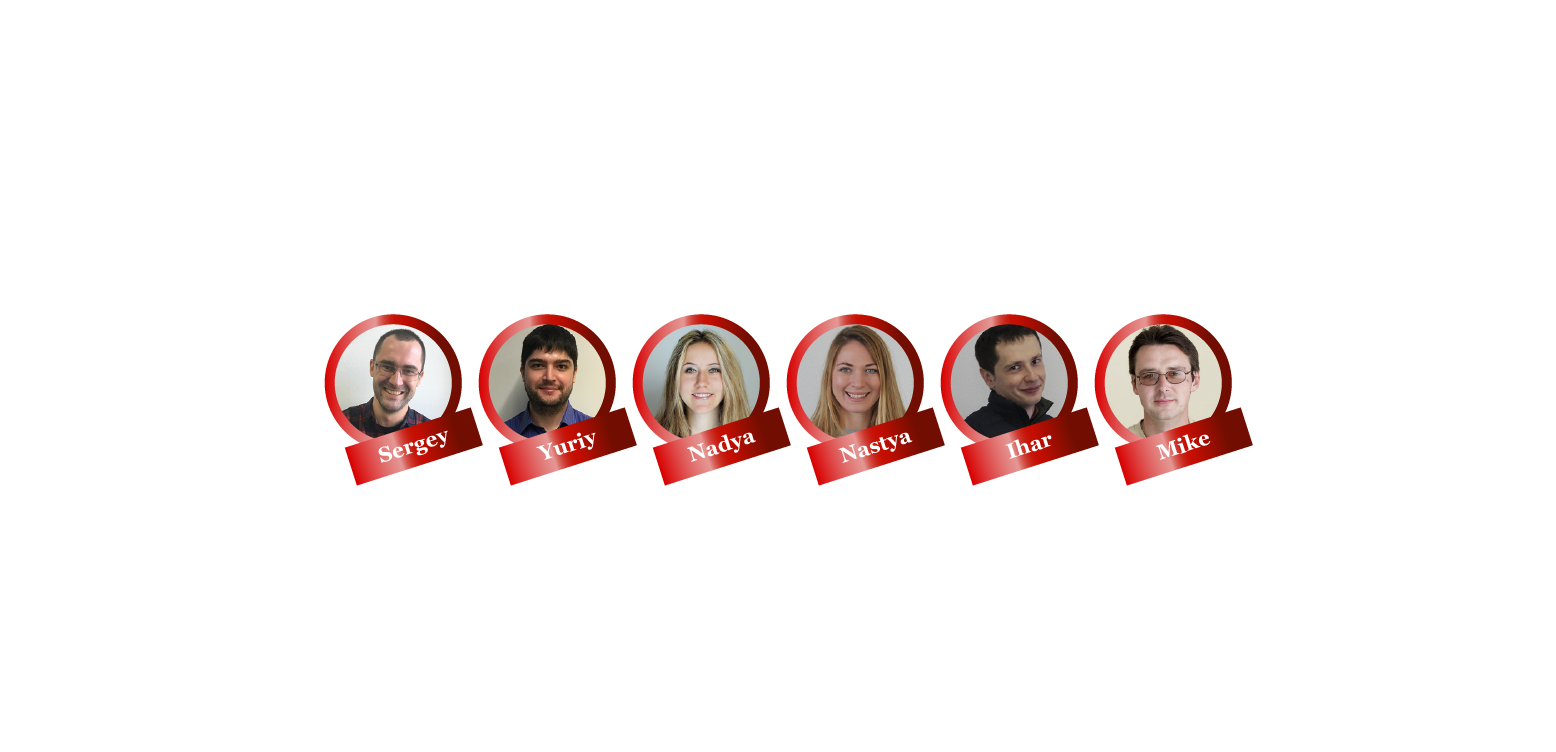
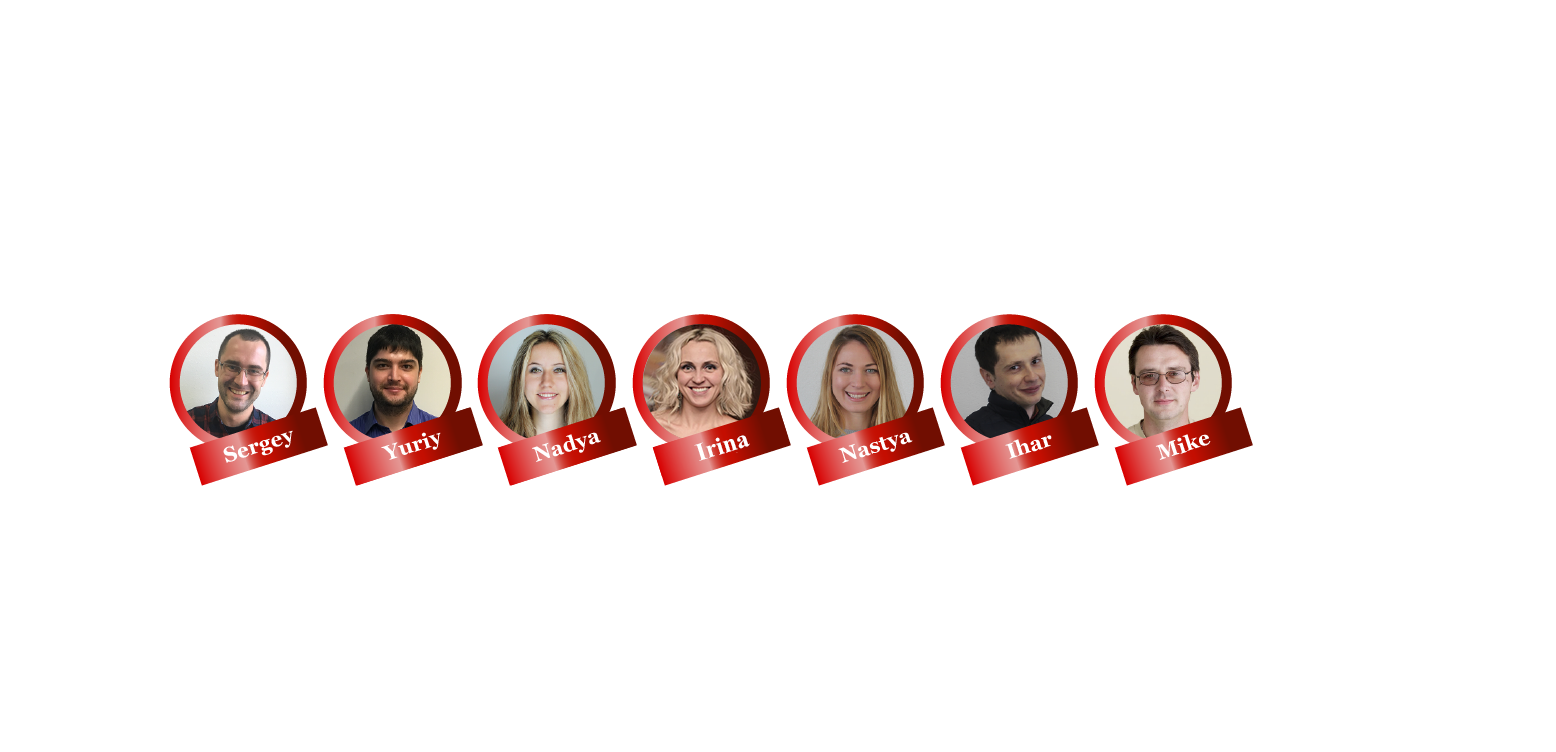
add photos

Changed region(s): [[0.0925, 0.3976, 0.4936, 0.6423]]

diff --git a/index.html b/index.html
@@ -68,7 +68,7 @@
             Christmas spirit is everywhere and New Year is on the way and we really do thank you for all those challenges and opportunities you have given to us. As we step into another year, we wish you confidence and courage to accept new challenges and work further towards your goals! We are really happy we managed to establish relationship of trust and hope we can multiply it next year. </p>
         <footer>
             Merry Christmas and Happy New Year!<br>
-            EPAM Team 
+            Gov Team 
         </footer>
     </li>
     <li class=c_kiss>
@@ -87,7 +87,7 @@ KISS & C Teams
         </footer>
     </li>
     <li class=haiku>
-        <h2>Dear Team,</h2>
+        <h2>Dear Team</h2>
         <p>
             This year was really great together we achieved a lot of tops, climbed a lot of mountains.
 We have finished the year with climbing the second world’s highest mountain K2, and the upcoming year we wish a smooth conquest of Everest!
@@ -109,7 +109,7 @@ I wish all our teams to be even more productive and effective!
         </footer>
     </li>
     <li class=qa>
-        <h2>Dear Friends, </h2>
+        <h2>Dear Friends</h2>
         <p>
             Have yourself a merry little Christmas<br>
             Let Hyperion test apps tonight<br>
@@ -119,7 +119,7 @@ I wish all our teams to be even more productive and effective!
         <footer>Test Automation Team</footer>
     </li>
     <li class=sparta>
-        <h2>Dear Friends, </h2>
+        <h2>Dear Friends</h2>
         <p>
             As the legendary King of Sparta, Leonidas said: 'Fear - is waste of time', In upcoming New Year we wish you real Spartans spirit tenacity and stability temper. May this year bring you tens of successful victories in our own life battleground. Let us wish you a profitable year and Merry Christmas!
         </p>
